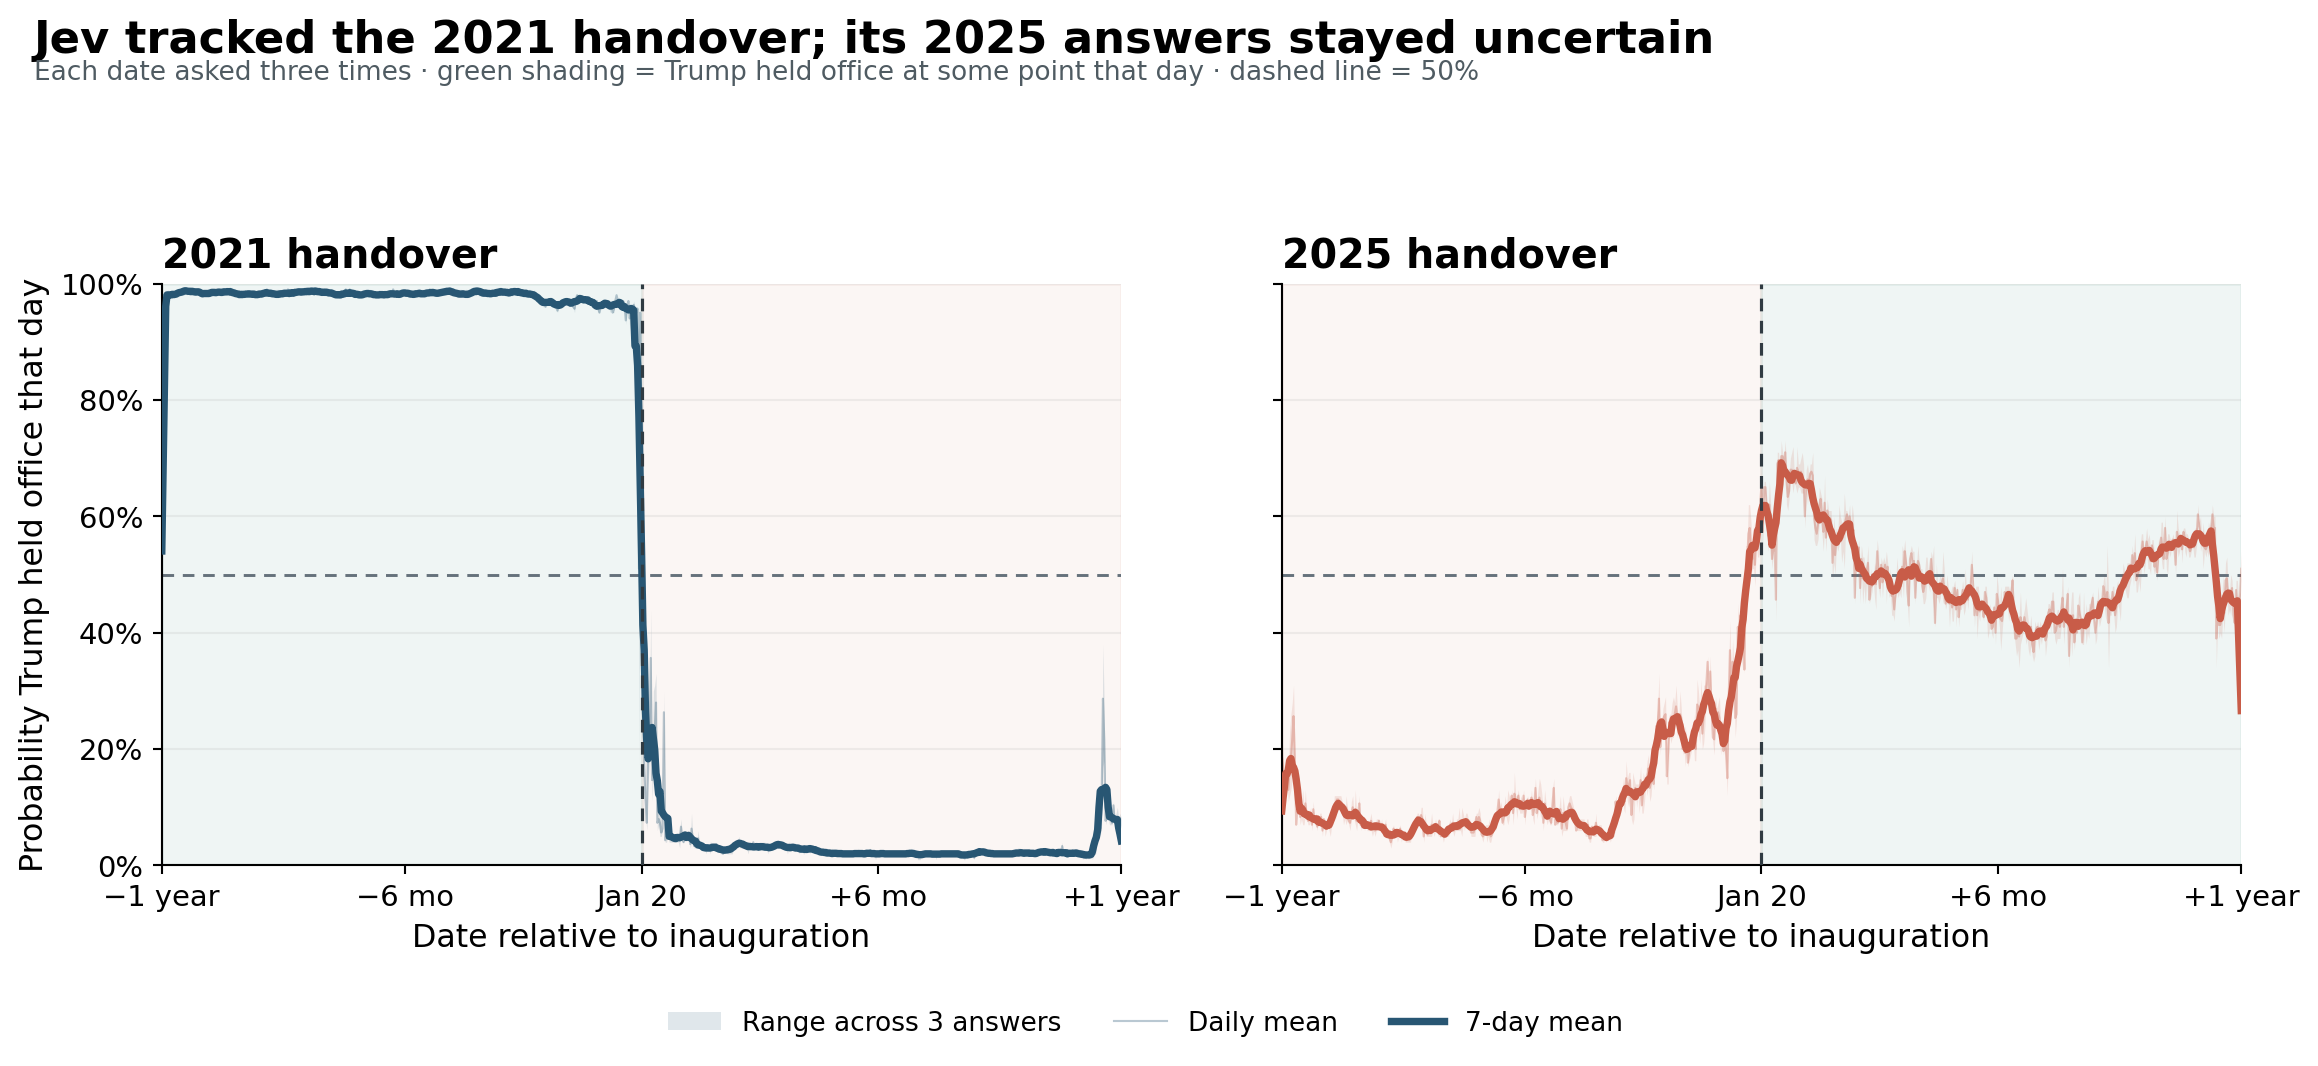
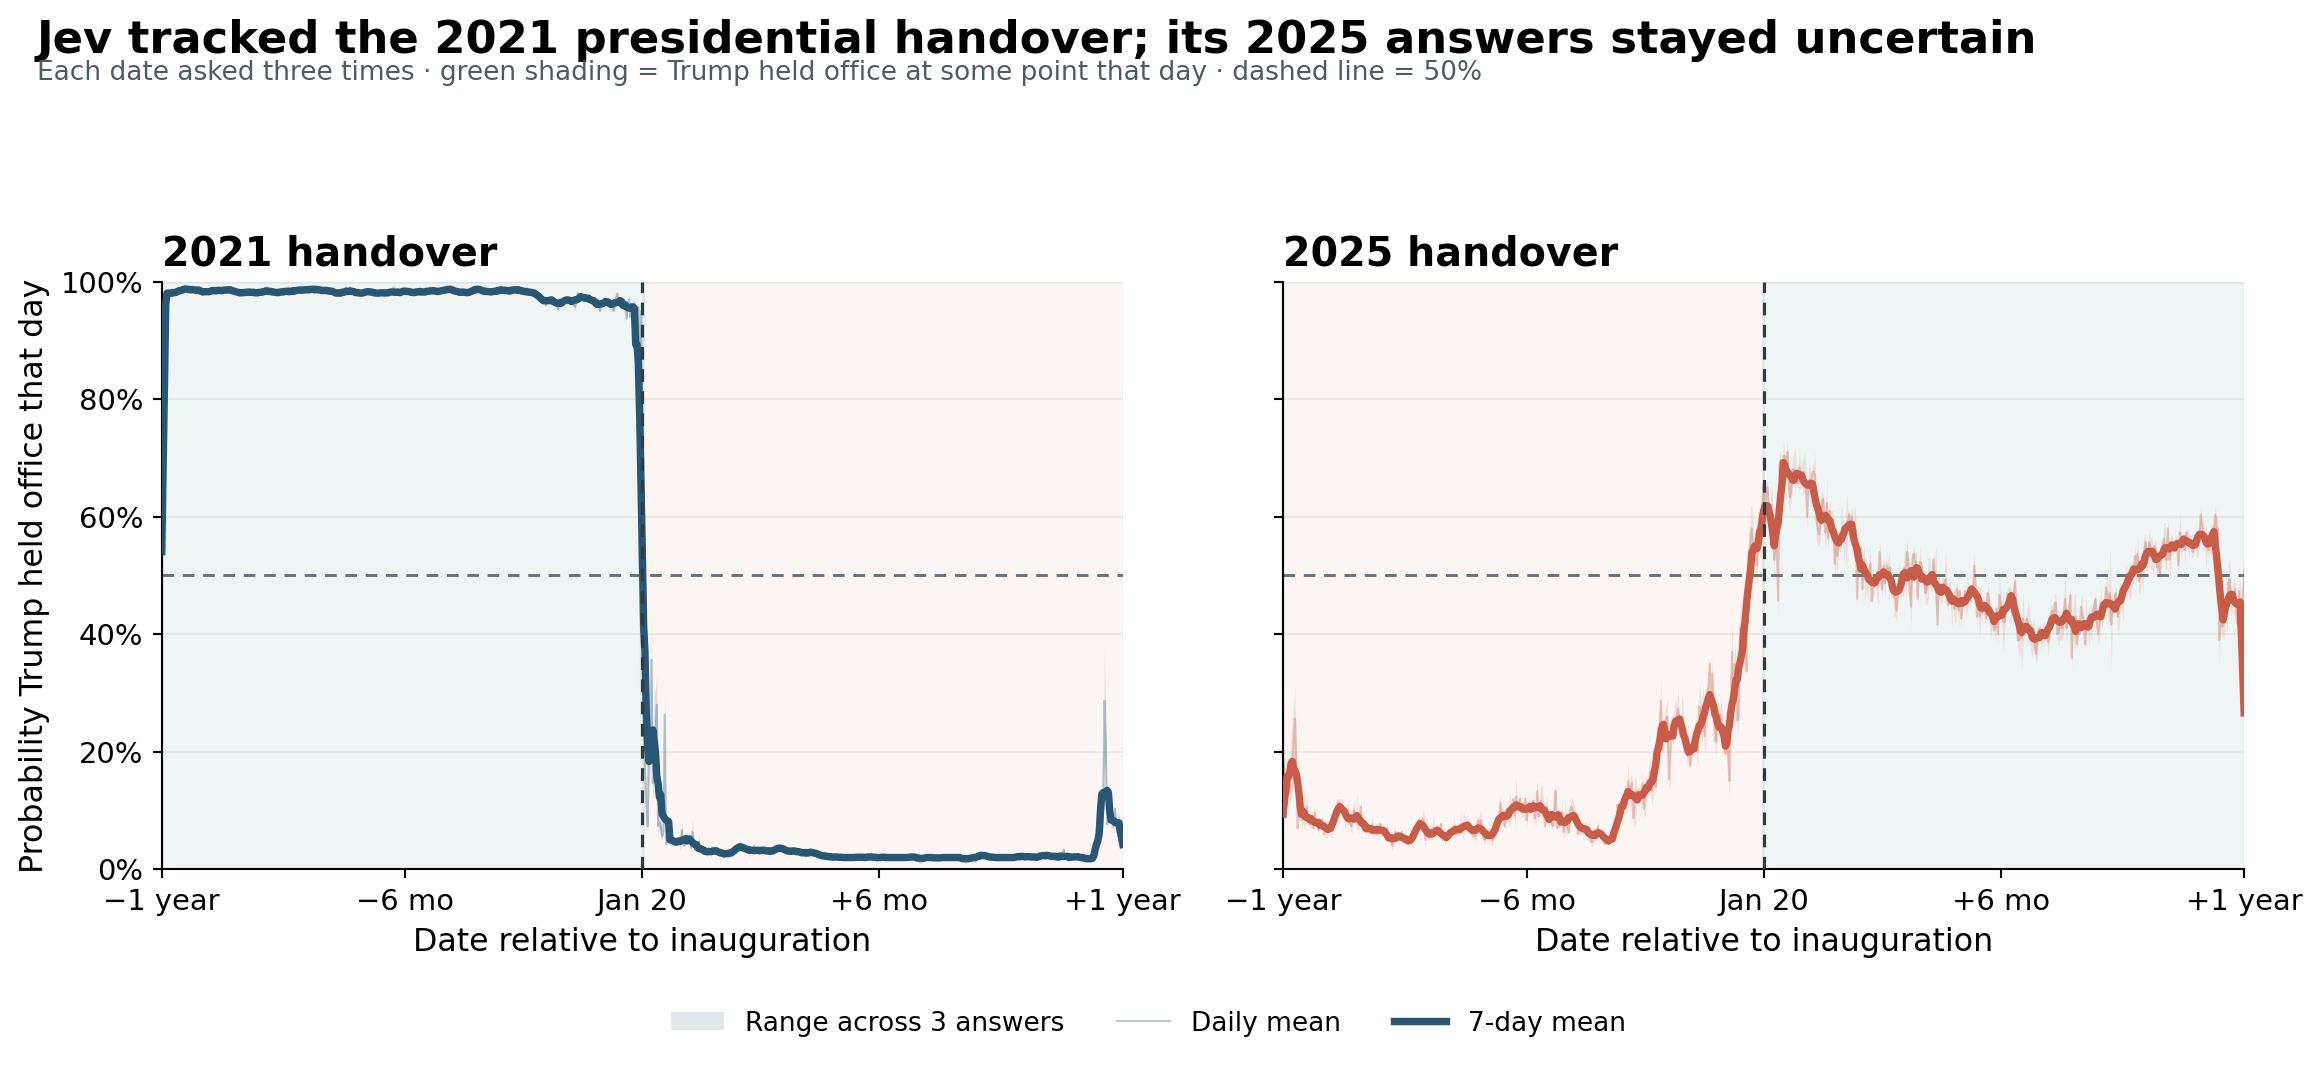
Clarify Bitcoin chart hover and handover title (#7)

diff --git a/static/posts/jev-calibration/bitcoin-sweep.html b/static/posts/jev-calibration/bitcoin-sweep.html
@@ -7,12 +7,12 @@
 .keys{display:flex;flex-wrap:wrap;gap:3px 8px;margin:0 0 8px}.year-key{border:0;border-bottom:3px solid var(--year-color);background:transparent;color:#283943;padding:2px 4px;font:inherit;font-size:12px;cursor:pointer;border-radius:2px}
 .year-key:hover,.year-key:focus-visible,.year-key[aria-pressed=true]{background:#eef2f4;outline:2px solid #345;outline-offset:1px}
 svg{display:block;width:100%;height:auto;overflow:visible}.panel-title{font-size:19px;font-weight:700;fill:#182a35}.axis{stroke:#46535a;stroke-width:1}.grid{stroke:#dce2e5;stroke-width:1}.tick{font-size:13px;fill:#43515a}.xlab{font-size:12px}.ylabel{font-size:13px;fill:#43515a}.series{fill:none;stroke-width:1.55;opacity:.77;vector-effect:non-scaling-stroke;transition:opacity .12s,stroke-width .12s}.no-date{fill:none;stroke:#204c67;stroke-width:2.7;opacity:.98;vector-effect:non-scaling-stroke;transition:opacity .12s,stroke-width .12s}.whisker{stroke-width:1.2;opacity:.72;vector-effect:non-scaling-stroke}.legend{font-size:13px;fill:#34434c}.hint{margin:4px 0 2px;font-size:12px;color:#5b6870}
-.annual-whisker{opacity:.05}.annual-whisker.active{opacity:.88}
-.dim{opacity:.09!important}.active{opacity:1!important;stroke-width:3.4!important}.whisker.dim{opacity:.03!important}
+.annual-whisker{opacity:0}.annual-whisker.active{opacity:.88}
+.dim{opacity:.02!important;stroke:#aab4b9!important;stroke-width:1!important}.active{opacity:1!important;stroke-width:3.4!important}.whisker.dim{opacity:0!important}
 @media(max-width:650px){.wrap{padding:8px 4px}.year-key{font-size:11px;padding:2px}.tick{font-size:11px}.xlab{font-size:10px}.panel-title{font-size:17px}.legend{font-size:11px}}
 </style>
 <div class="wrap">
-<p class="guide">Hover over a year to isolate its line across both panels. Click a year to pin it.</p>
+<p class="guide">Hover over a year to highlight its line across both panels; other years fade. The no-deadline line stays visible for reference. Click a year to pin it.</p>
 <div class="keys" aria-label="Annual deadline years"><button type="button" class="year-key" data-year="2026" style="--year-color:hsl(270,62%,42%)" aria-pressed="false">2026</button>
 <button type="button" class="year-key" data-year="2027" style="--year-color:hsl(259,62%,42%)" aria-pressed="false">2027</button>
 <button type="button" class="year-key" data-year="2028" style="--year-color:hsl(248,62%,42%)" aria-pressed="false">2028</button>
@@ -70,9 +70,12 @@ function renderPanel(arm,name,index){
 renderPanel('defined','True/false definitions supplied',0);renderPanel('blank','Criteria strings empty',1);
 const legend=el('g');el('line',{x1:720,y1:745,x2:746,y2:745,stroke:'#204c67','stroke-width':3},legend);const lt=el('text',{x:754,y:750,class:'legend'},legend);lt.textContent='No deadline';
 el('line',{x1:890,y1:745,x2:916,y2:745,stroke:'#555','stroke-width':1},legend);el('line',{x1:890,y1:741,x2:890,y2:749,stroke:'#555','stroke-width':1},legend);el('line',{x1:916,y1:741,x2:916,y2:749,stroke:'#555','stroke-width':1},legend);const tw=el('text',{x:924,y:750,class:'legend'},legend);tw.textContent='10th–90th percentile';
-function selectYear(year){document.querySelectorAll('.series,.no-date,.annual-whisker').forEach(n=>{const reference=n.classList.contains('no-date');n.classList.toggle('dim',year!==null&&!reference&&n.dataset.year!==String(year));n.classList.toggle('active',n.classList.contains('annual-whisker')&&year!==null&&n.dataset.year===String(year));});document.querySelectorAll('.year-key').forEach(b=>b.setAttribute('aria-pressed',String(b.dataset.year===String(pinned))));}
-document.querySelectorAll('.year-key').forEach((b,i)=>{b.style.setProperty('--year-color',colors[i]);b.addEventListener('mouseenter',()=>{if(!pinned)selectYear(b.dataset.year)});b.addEventListener('mouseleave',()=>{if(!pinned)selectYear(null)});b.addEventListener('focus',()=>{if(!pinned)selectYear(b.dataset.year)});b.addEventListener('blur',()=>{if(!pinned)selectYear(null)});b.addEventListener('click',()=>{pinned=pinned===b.dataset.year?null:b.dataset.year;selectYear(pinned)});});
-let pinned=null;lineEls.filter(n=>n.classList.contains('series')).forEach(n=>{n.addEventListener('mouseenter',()=>{if(!pinned)selectYear(n.dataset.year)});n.addEventListener('mouseleave',()=>{if(!pinned)selectYear(null)});});
+let pinned=null,hovered=null,focused=null;
+function selectYear(year){document.querySelectorAll('.series,.annual-whisker').forEach(n=>{const selected=year!==null&&n.dataset.year===String(year);n.classList.toggle('dim',year!==null&&!selected);n.classList.toggle('active',selected);});document.querySelectorAll('.year-key').forEach(b=>b.setAttribute('aria-pressed',String(b.dataset.year===String(pinned))));}
+const wrap=document.querySelector('.wrap');
+wrap.addEventListener('pointerover',event=>{const button=event.target.closest('.year-key');if(button){hovered=button.dataset.year;if(!pinned)selectYear(hovered);}});
+wrap.addEventListener('pointerleave',()=>{hovered=null;if(!pinned)selectYear(focused);});
+document.querySelectorAll('.year-key').forEach((b,i)=>{b.style.setProperty('--year-color',colors[i]);b.addEventListener('focus',()=>{focused=b.dataset.year;if(!pinned)selectYear(focused);});b.addEventListener('blur',()=>{focused=null;if(!pinned)selectYear(hovered);});b.addEventListener('click',()=>{pinned=pinned===b.dataset.year?null:b.dataset.year;selectYear(pinned||hovered||focused);});});
 const sendHeight=()=>parent.postMessage({kind:'bitcoin-chart-height',height:Math.ceil(document.querySelector('.wrap').scrollHeight+4)},location.origin);
 if(parent!==window){new ResizeObserver(sendHeight).observe(document.querySelector('.wrap'));window.addEventListener('load',sendHeight);sendHeight();}
 </script></html>
